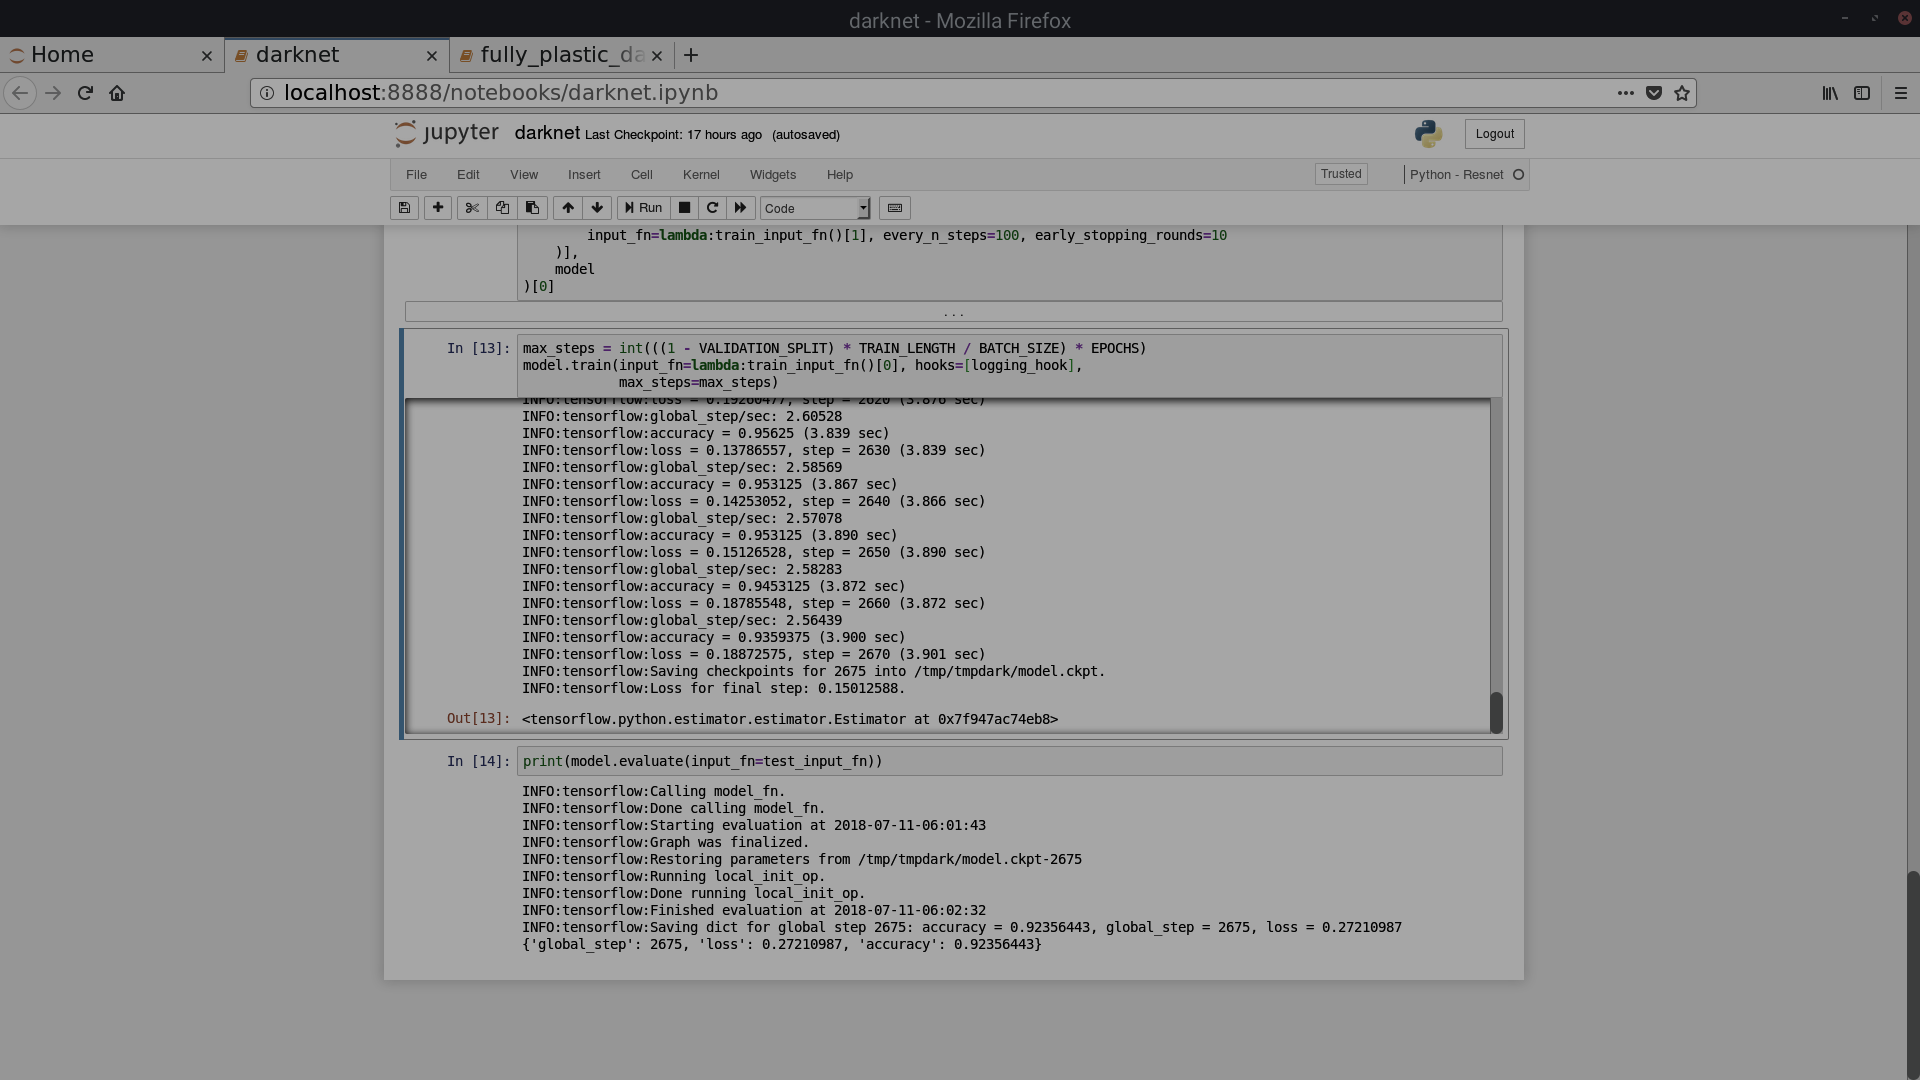
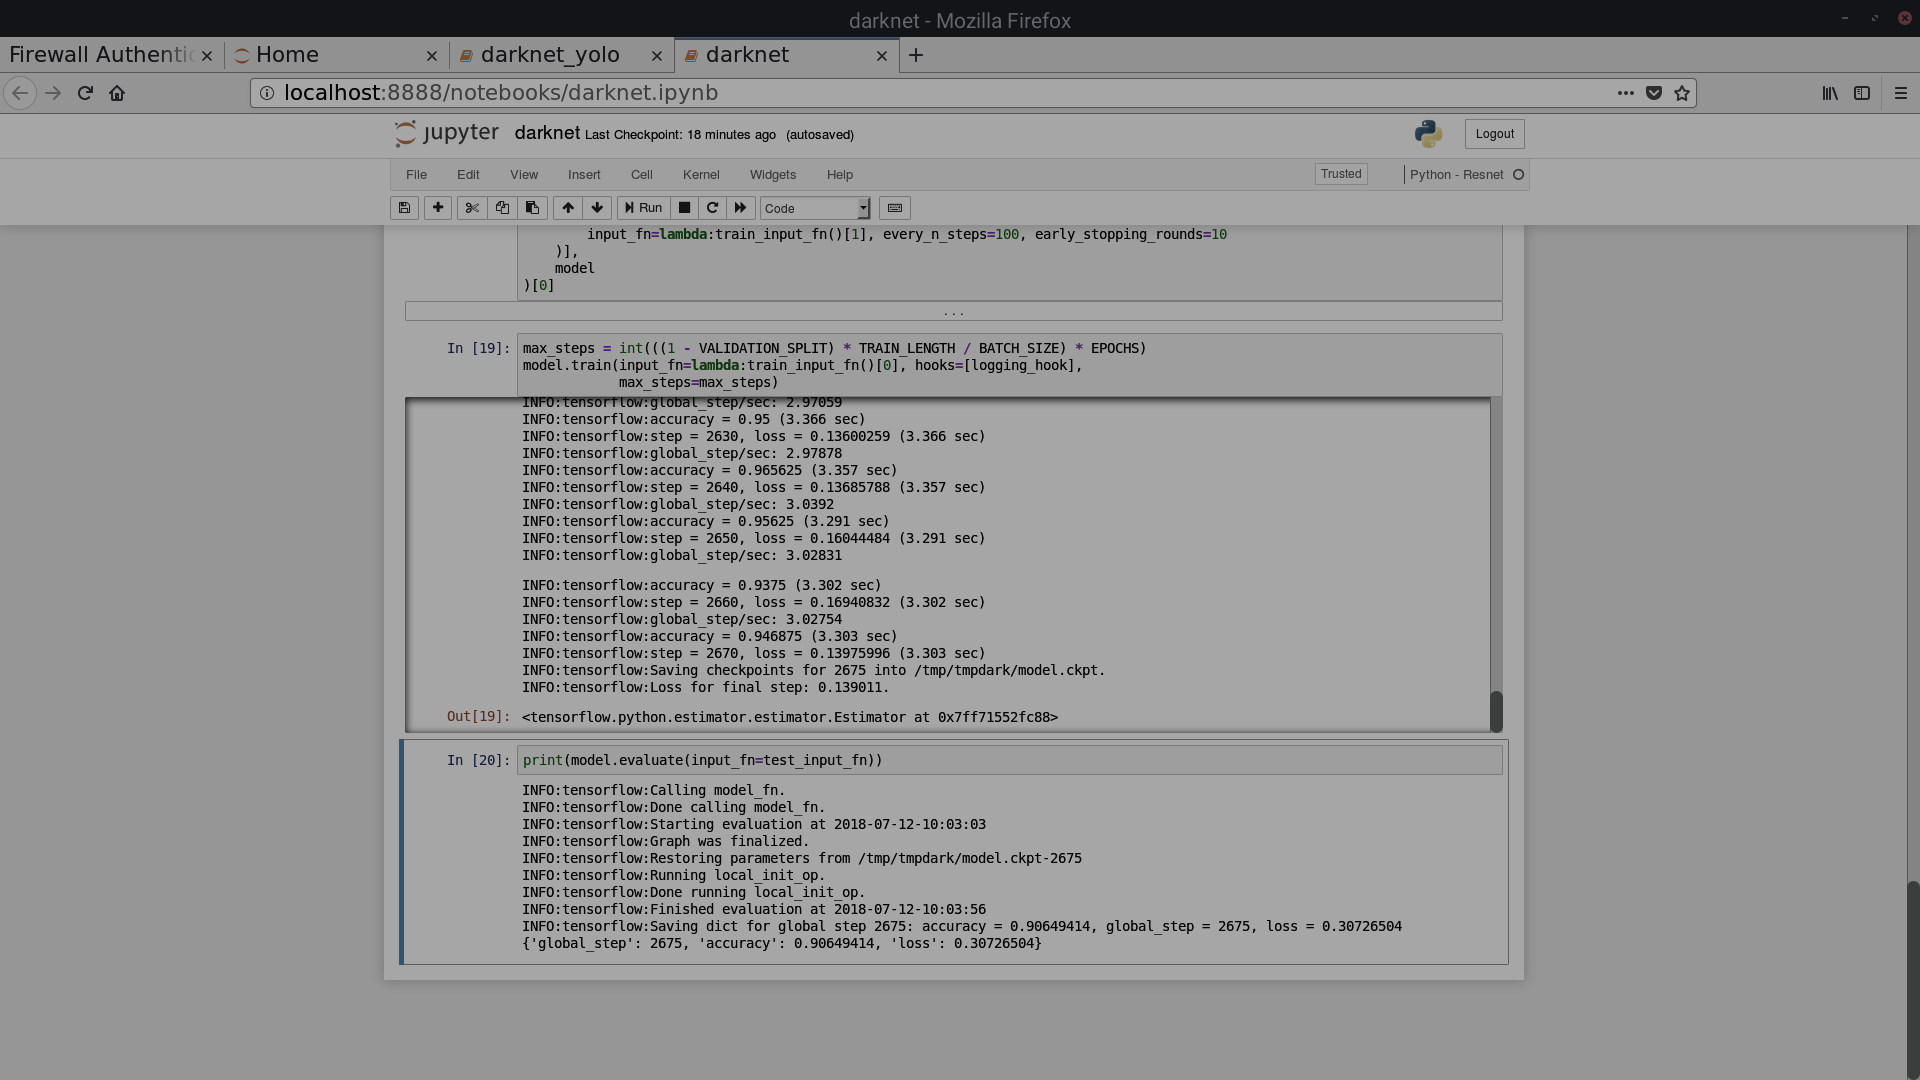
Got new results with leaky relu

diff --git a/pascal_voc/classification/Results/README.md b/pascal_voc/classification/Results/README.md
@@ -10,7 +10,7 @@ When validation data is not used, the model is trained on the entire training da
 | Filename                                                           | Validation | Plasticity   | Accuracy |
 | --------------------------------------------------------------     | ---------- | ------------ | -------- |
 | [DarknetScreen.png](DarknetScreen.png)                             | Yes        | No           | 90.19    |
-| [DarknetScreen-2.png](DarknetScreen-2.png)                         | No         | No           | 92.36    |
+| [DarknetScreen-2.png](DarknetScreen-2.png)                         | No         | No           | 90.65    |
 | [FullyPlasticDarknetScreen.png](FullyPlasticDarknetScreen.png)     | Yes        | All layers   | 90.18    |
 | [FullyPlasticDarknetScreen-2.png](FullyPlasticDarknetScreen-2.png) | No         | All layers   | 90.29    |
 | [UpperPlasticDarknetScreen.png](UpperPlasticDarknetScreen.png)     | Yes        | Upper layers | 90.51    |
